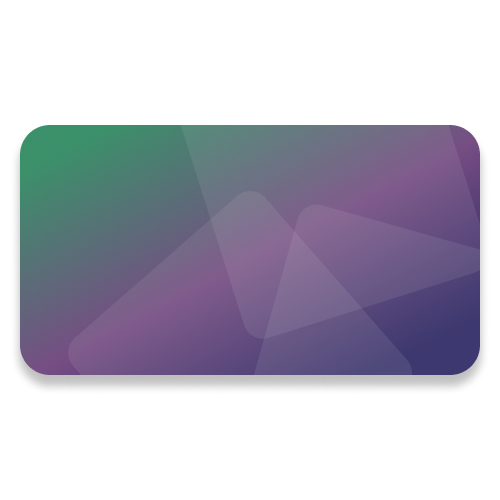
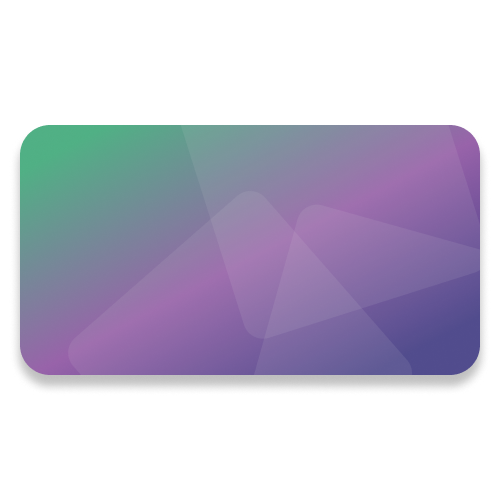
Give Bencina the blue card
Renames card-blue.png to card_blue.png so it matches the underscore
naming the other cards use.

Claude-Session: https://claude.ai/code/session_01DMpjDLeQh6Ex1iE7PKRMqh

diff --git a/data.js b/data.js
@@ -4,14 +4,14 @@ import { beigeTheme, blueGreenTheme, blueTheme, darkTheme, graphiteBluePurpleThe
 // Firestore: si no coincide, no pasa nada y se usa la tarjeta por defecto.
 export const accountCardByName = {
   m_account: {
-    Bencina: require('./assets/images/card_black-blue.png'),
+    Bencina: require('./assets/images/card_blue.png'),
     Efectivo: require('./assets/images/card_green.png'),
     'Cuenta corriente': require('./assets/images/card_purple-green.png'),
   },
 };
 
 export const subAccountCard = {
-  Bencina: require('./assets/images/card_black-blue.png'),
+  Bencina: require('./assets/images/card_blue.png'),
   Cabify: require('./assets/images/card_purple-green.png'),
   Didi: require('./assets/images/card_orange.png'),
   Uber: require('./assets/images/card_black.png'),
